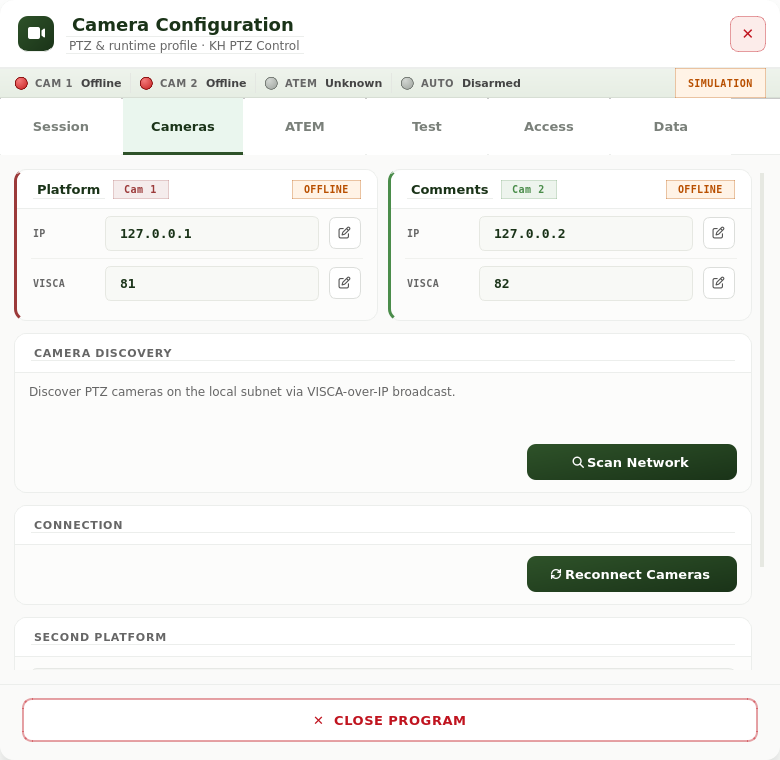
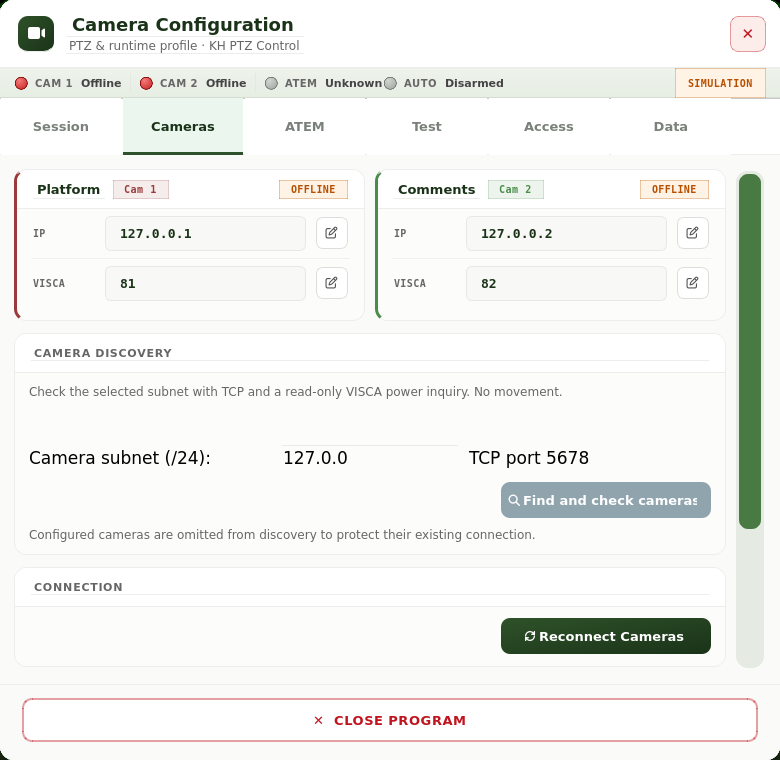
docs: refresh remaining screenshots from the simulator, drop pending-validation wording; sim answers exposure compensation inquiry

diff --git a/adapters/hardware_simulator.py b/adapters/hardware_simulator.py
@@ -114,6 +114,11 @@ def handle_visca(data: bytes, cam: SimCamera) -> bytes:
                 tilt_nibs = _nibbles_to_bytes(cam.tilt & 0xFFFF)
                 return bytes([0x90, 0x58]) + pan_nibs + tilt_nibs + bytes([0xFF])
 
+            if cat == 0x04 and cmd == 0x4E:   # Exposure compensation position
+                cam.last_cmd = "INQ:ExpComp"
+                # VISCA value 7 maps to level 0 (see ptz.visca.parser.exp_comp_level)
+                return bytes([0x90, 0x50, 0x00, 0x00, 0x00, 0x07, 0xFF])
+
             cam.last_cmd = f"INQ:?{cat:02X}{cmd:02X}"
             return bytes([0x90, 0x60, 0x02, 0xFF])
 

diff --git a/tests/test_hardware_simulator.py b/tests/test_hardware_simulator.py
@@ -385,3 +385,11 @@ class TestHandleViscaBroadcast:
         resp = handle_visca(b"\x88\x01\x01\x00\xFF", cam)
         assert resp == bytes([0x90, 0x01, 0xFF])
 
+
+
+class TestExposureCompensationInquiry:
+    def test_exp_comp_inquiry_answers_neutral_level(self):
+        from ptz.visca.parser import exp_comp_level
+        reply = handle_visca(bytes.fromhex("81 09 04 4E FF"), SimCamera("test"))
+        assert reply == bytes.fromhex("90 50 00 00 00 07 FF")
+        assert exp_comp_level(reply) == 0

diff --git a/README.md b/README.md
@@ -24,13 +24,24 @@ taps a seat on a visual auditorium layout to recall its saved framing, with
 separate Platform and Comments camera roles and manual joystick, zoom, focus
 and exposure controls.
 
-Free and open-source (MIT). This is an installable application under active camera
-stability work. Automated tests and a successful install do not replace physical validation
-of both cameras, saved framing, STOP and recovery on your own equipment. The original application code is
+Free and open-source (MIT). It is installed and validated on the
+maintainer's own equipment (Raspberry Pi and two PTZ cameras). The screenshots in this
+repository come from the built-in simulator, not from that installation. Automated tests
+and a successful install do not replace validating both cameras, saved framing, STOP and
+recovery on your own equipment. The original application code is
 MIT-licensed. Required GUI dependencies and optional components have separate
 licences; see [third-party notices](THIRD_PARTY_NOTICES.md) and the
 [ATEM dependency gate](docs/ATEM_DEPENDENCY_DECISION.md) before sharing an installed
 system or deploying ATEM support.
+
+## Screenshots
+
+All images below come from the built-in simulator (local loopback cameras), not from a
+physical installation.
+
+| Operator screen | Joystick moving | Settings |
+| --- | --- | --- |
+| ![Operator screen with seat map, camera power toggle and Comments to Home](docs/screenshots/03-panel.png) | ![Joystick held right, pan command shown](docs/screenshots/09-moving.png) | ![Camera configuration, Session tab](docs/screenshots/05-config.png) |
 
 ## Start here
 
@@ -347,7 +358,7 @@ Do not move these into the source checkout. See the
 
 ## Status
 
-Installable MVP candidate under active stability work. Stop the GUI before
+Installed and validated by the maintainer; development continues. Stop the GUI before
 standalone camera diagnostics; do not run a second controller against live cameras.
 Rehearse safely, validate the physical equipment, and record results in
 `docs/MVP_VALIDATION_REPORT.md`. Simulation is not physical validation. See
